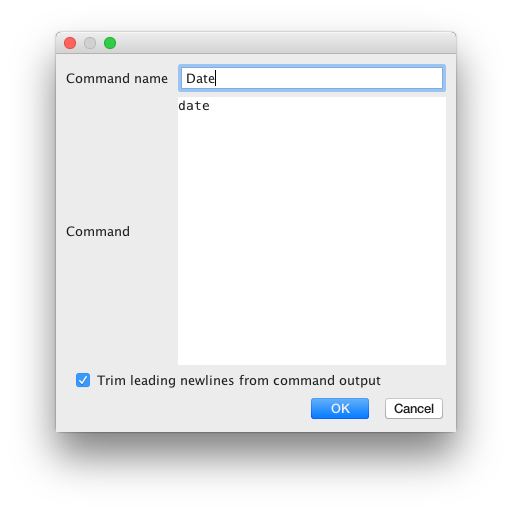
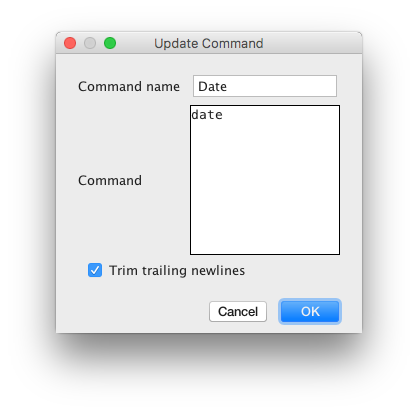
1.0.0-beta.3

Changed region(s): [[0.0933, 0.0581, 0.9019, 0.9007], [0.1866, 0.6392, 0.5909, 0.6683]]

diff --git a/src/main/java/de/dieploegers/develop/idea/shellfilter/ui/CommandSettingsDialog.java b/src/main/java/de/dieploegers/develop/idea/shellfilter/ui/CommandSettingsDialog.java
@@ -2,34 +2,27 @@ package de.dieploegers.develop.idea.shellfilter.ui;
 
 import com.intellij.openapi.ui.DialogWrapper;
 import de.dieploegers.develop.idea.shellfilter.beans.CommandBean;
+import org.jetbrains.annotations.NonNls;
 import org.jetbrains.annotations.Nullable;
 
 import javax.swing.*;
 import java.awt.event.KeyEvent;
 import java.awt.event.WindowAdapter;
 import java.awt.event.WindowEvent;
+import java.util.ResourceBundle;
 
 public class CommandSettingsDialog extends DialogWrapper {
+    @NonNls
+    private final ResourceBundle resourceBundle =
+        ResourceBundle.getBundle("i18n.shellfilter");
     private JPanel contentPane;
     private JTextArea command;
     private JTextField commandName;
     private JCheckBox trimLeadingNewlinesFromCheckBox;
-    private final boolean isNew;
-    private CommandBean originalData;
 
     public CommandSettingsDialog() {
         super(false);
-        isNew = true;
         init();
-    }
-
-    public CommandSettingsDialog(final CommandBean commandBean)
-    {
-        super(false);
-        isNew = false;
-        originalData = commandBean;
-        init();
-        this.setData(commandBean);
     }
 
     public void setData(final CommandBean data) {

diff --git a/src/main/java/de/dieploegers/develop/idea/shellfilter/ui/ConfigurationUI.java b/src/main/java/de/dieploegers/develop/idea/shellfilter/ui/ConfigurationUI.java
@@ -47,6 +47,9 @@ public class ConfigurationUI {
             final CommandSettingsDialog
                 commandSettingsDialog =
                 new CommandSettingsDialog();
+            commandSettingsDialog.setTitle(
+                resourceBundle.getString("dialog.command.new.title")
+            );
             if (commandSettingsDialog.showAndGet()) {
                 final CommandBean newCommand = new CommandBean();
                 commandSettingsDialog.getData(newCommand);
@@ -57,7 +60,11 @@ public class ConfigurationUI {
             final CommandBean selectedCommandBean =
                 commandList.getSelectedValue();
             final CommandSettingsDialog commandSettingsDialog =
-                new CommandSettingsDialog(selectedCommandBean);
+                new CommandSettingsDialog();
+            commandSettingsDialog.setData(selectedCommandBean);
+            commandSettingsDialog.setTitle(
+                resourceBundle.getString("dialog.command.update.title")
+            );
             if (commandSettingsDialog.showAndGet()) {
                 final CommandBean updatedCommand = new CommandBean();
                 commandSettingsDialog.getData(updatedCommand);
